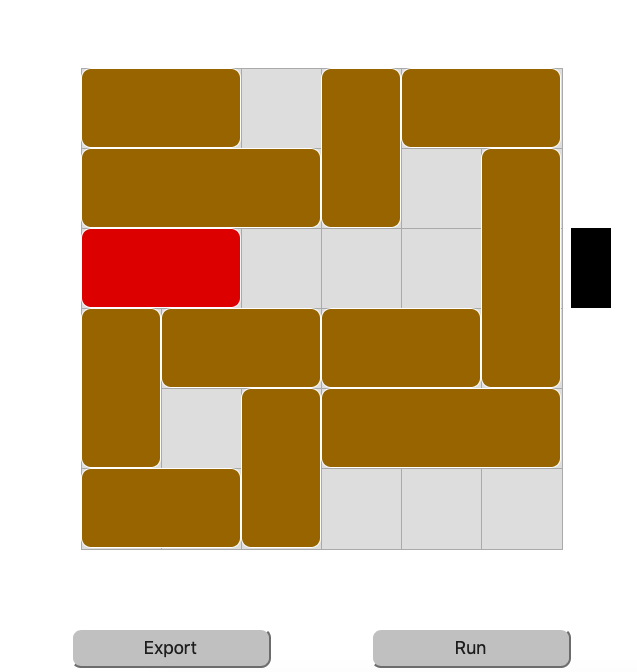
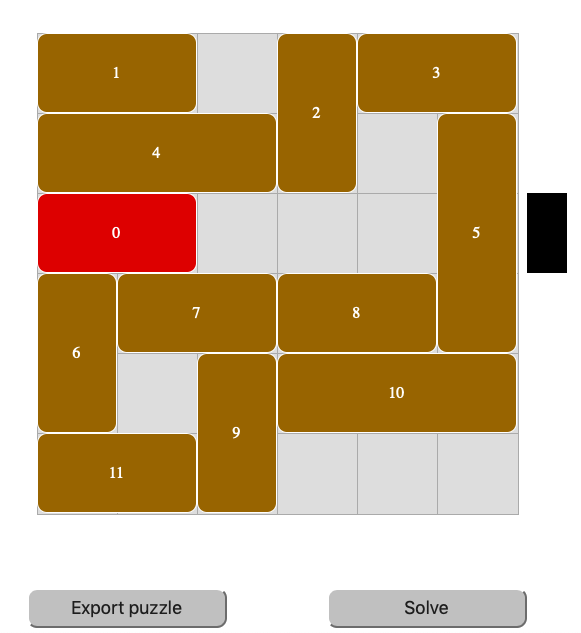
Change documentation

diff --git a/README.md b/README.md
@@ -306,7 +306,9 @@ the various pieces.
 
 * You can import a json file by dropping it to the initial form.
 
-* You can solve the puzzle with the `run` button.
+* You can solve the puzzle with the `solve` button.
+
+* Once the solution is computed, you can play it with the `play` button.
 
 NOTE : Only safari will allow you to run from a local file.
 Others browsers (Chrome, Firefox) cannot load web worker from
